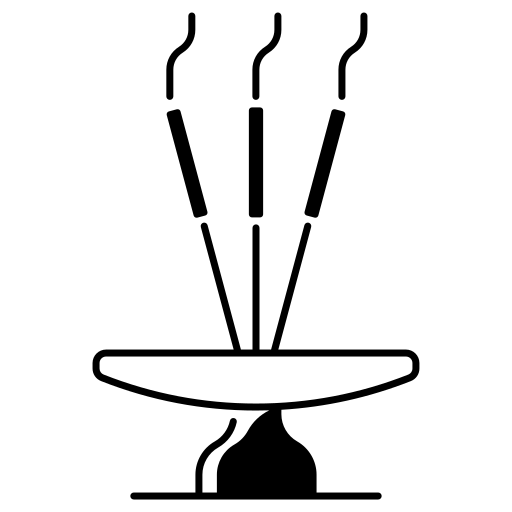
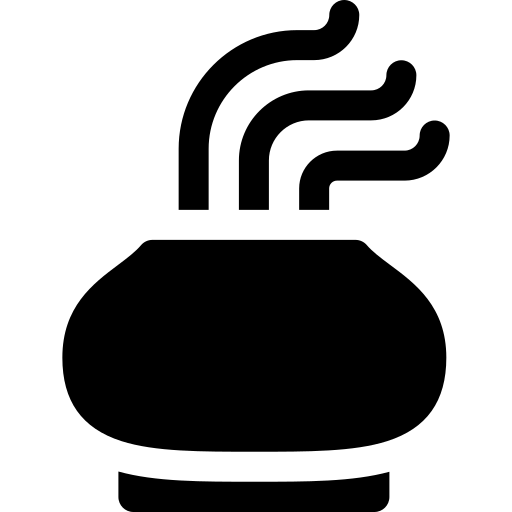
first commit

diff --git a/index.html b/index.html
@@ -1908,11 +1908,13 @@ Infused with temple energy, our incense offers a mindful, meaningful experience 
 
                                     </p>
 
+                                    
+
 
 
                                     <a href="" class="tf-btn btn-read-more scale-40">
                                         <span class="text-style">
-                                            More Why Choose Us
+                                             Why Choose Us
                                         </span>
                                         <div class="icon">
                                             <i class="icon-arrow_right"></i>
@@ -1921,8 +1923,106 @@ Infused with temple energy, our incense offers a mindful, meaningful experience 
                                 </div>
 
                             </div>
-                            <br><br><br><br><br><br><br><br><br><br><br><br><br><br><br>
-                            <div class="bot relative">
+                          
+
+                           <section style="background-color: #643d00; color: #fff; border-radius: 20px; padding: 40px 20px; font-family: sans-serif; margin-top: 50px;">
+  <div class="features-container">
+    <div class="feature-box">
+      <div class="icon">✔</div>
+      <b><h4 style="color:yellow">Tradition Meets<br>Sustainability</h4></b>
+      <p>We blend age-old spiritual practices with modern eco-conscious values by transforming sacred temple waste</p>
+    </div>
+    <div class="feature-box">
+      <div class="icon">✔</div>
+      <b><h4 style="color:yellow">Sacred Waste to<br>Sacred Worth</h4></b>
+      <p>By repurposing Nirmalya (floral offerings), we honor religious sentiments while reducing environmental impact</p>
+    </div>
+    <div class="feature-box">
+      <div class="icon">✔</div>
+      <b><h4 style="color:yellow">Wellness Rooted in<br>Nature</h4></b>
+      <p>Crafted with natural elements like sandalwood, frankincense, and essential oils, our incense supports mindful living</p>
+    </div>
+    <div class="feature-box">
+      <div class="icon">✔</div>
+      <b><h4 style="color:yellow">Empowering<br>Communities</h4></b>
+      <p>Our mission goes beyond products—we uplift local artisans, promote green practices, and create a global shift</p>
+    </div>
+  </div>
+
+  <style>
+    .features-container {
+      display: flex;
+      flex-wrap: wrap;
+      justify-content: space-between;
+      gap: 20px;
+    }
+
+    .feature-box {
+      flex: 1 1 calc(25% - 20px);
+      background-color: transparent;
+      border-right: 1px dashed #b37b00;
+      padding: 20px;
+      box-sizing: border-box;
+    }
+
+    .feature-box:last-child {
+      border-right: none;
+    }
+
+    .icon {
+      font-size: 30px;
+      background-color: #fdbd00;
+      border-radius: 50%;
+      width: 40px;
+      height: 40px;
+      display: flex;
+      align-items: center;
+      justify-content: center;
+       color: #fff;
+      margin-bottom: 15px;
+    }
+
+  
+
+    @media (max-width: 992px) {
+      .feature-box {
+        flex: 1 1 calc(50% - 20px);
+        border-right: none;
+        border-bottom: 1px dashed #b37b00;
+      }
+
+      .feature-box:nth-child(2n) {
+        border-bottom: none;
+      }
+
+      .feature-box:nth-last-child(1),
+      .feature-box:nth-last-child(2) {
+        border-bottom: none;
+      }
+    }
+
+    @media (max-width: 600px) {
+      .feature-box {
+        flex: 1 1 100%;
+        border-bottom: 1px dashed #b37b00;
+      }
+
+      .feature-box:last-child {
+        border-bottom: none;
+      }
+
+      h3 {
+        font-size: 16px;
+      }
+
+      p {
+        font-size: 14px;
+      }
+    }
+  </style>
+</section>
+
+                            <!-- <div class="bot relative">
                                 <ul class="benefit-list">
                                     <li>
                                         <div class="icon">
@@ -1973,7 +2073,7 @@ Infused with temple energy, our incense offers a mindful, meaningful experience 
                                         </p>
                                     </li>
                                 </ul>
-                            </div>
+                            </div> -->
                         </div>
                     </div>
                 </div>
@@ -2031,7 +2131,7 @@ Infused with temple energy, our incense offers a mindful, meaningful experience 
                                         <li class="li">
                                             <div class="box-icon style-3 ic-hover wow fadeInUp" data-wow-delay="0.1s">
                                                 <div class="icon style-circle hover-icon">
-                                                    <i class="icon-worm"></i>
+                                                    <i><img src="charcoal-grill (1).png" style="height:50px;width:50px;"></i>
                                                 </div>
                                                 <a href="our-commitments.html"
                                                     class="caption fw-6 font-worksans hover-text-4">
@@ -2053,7 +2153,7 @@ Infused with temple energy, our incense offers a mindful, meaningful experience 
                                         <li class="li">
                                             <div class="box-icon style-3 ic-hover wow fadeInUp" data-wow-delay="0.3s">
                                                 <div class="icon style-circle hover-icon">
-                                                    <i class="icon-light-bulb"></i>
+                                                    <i><img src="incense (1).png" style="height:50px;width:50px;"></i>
                                                 </div>
                                                 <a href="our-commitments.html"
                                                     class="caption fw-6 font-worksans hover-text-4">
